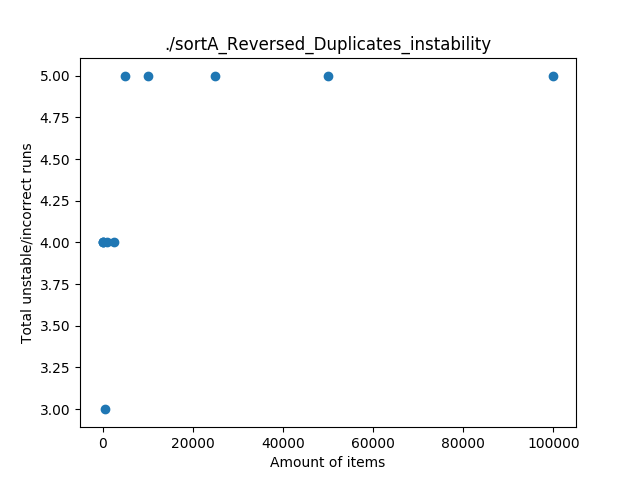
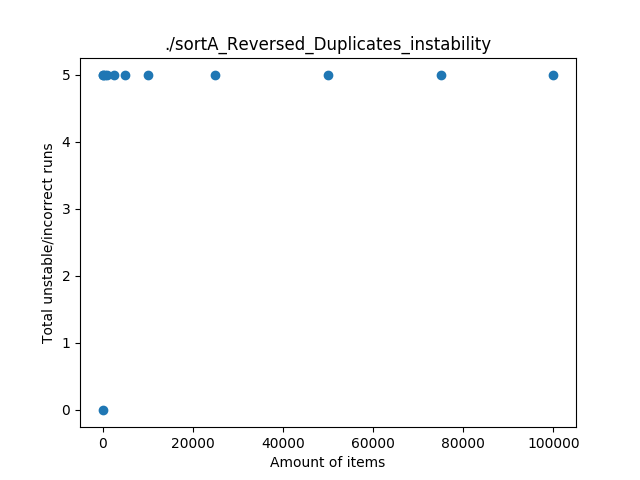
Redid sortA tests with 75000 case

diff --git a/Week 03_04/testProgram.py b/Week 03_04/testProgram.py
@@ -36,7 +36,8 @@ _AMOUNTS = [
 AMOUNTS = [
 	10, 50, 100, 500,
 	1000, 2500, 5000, 
-	10000, 25000, 50000, 100000,
+	10000, 25000, 50000, 75000,
+	100000,
 ]
 	
 
